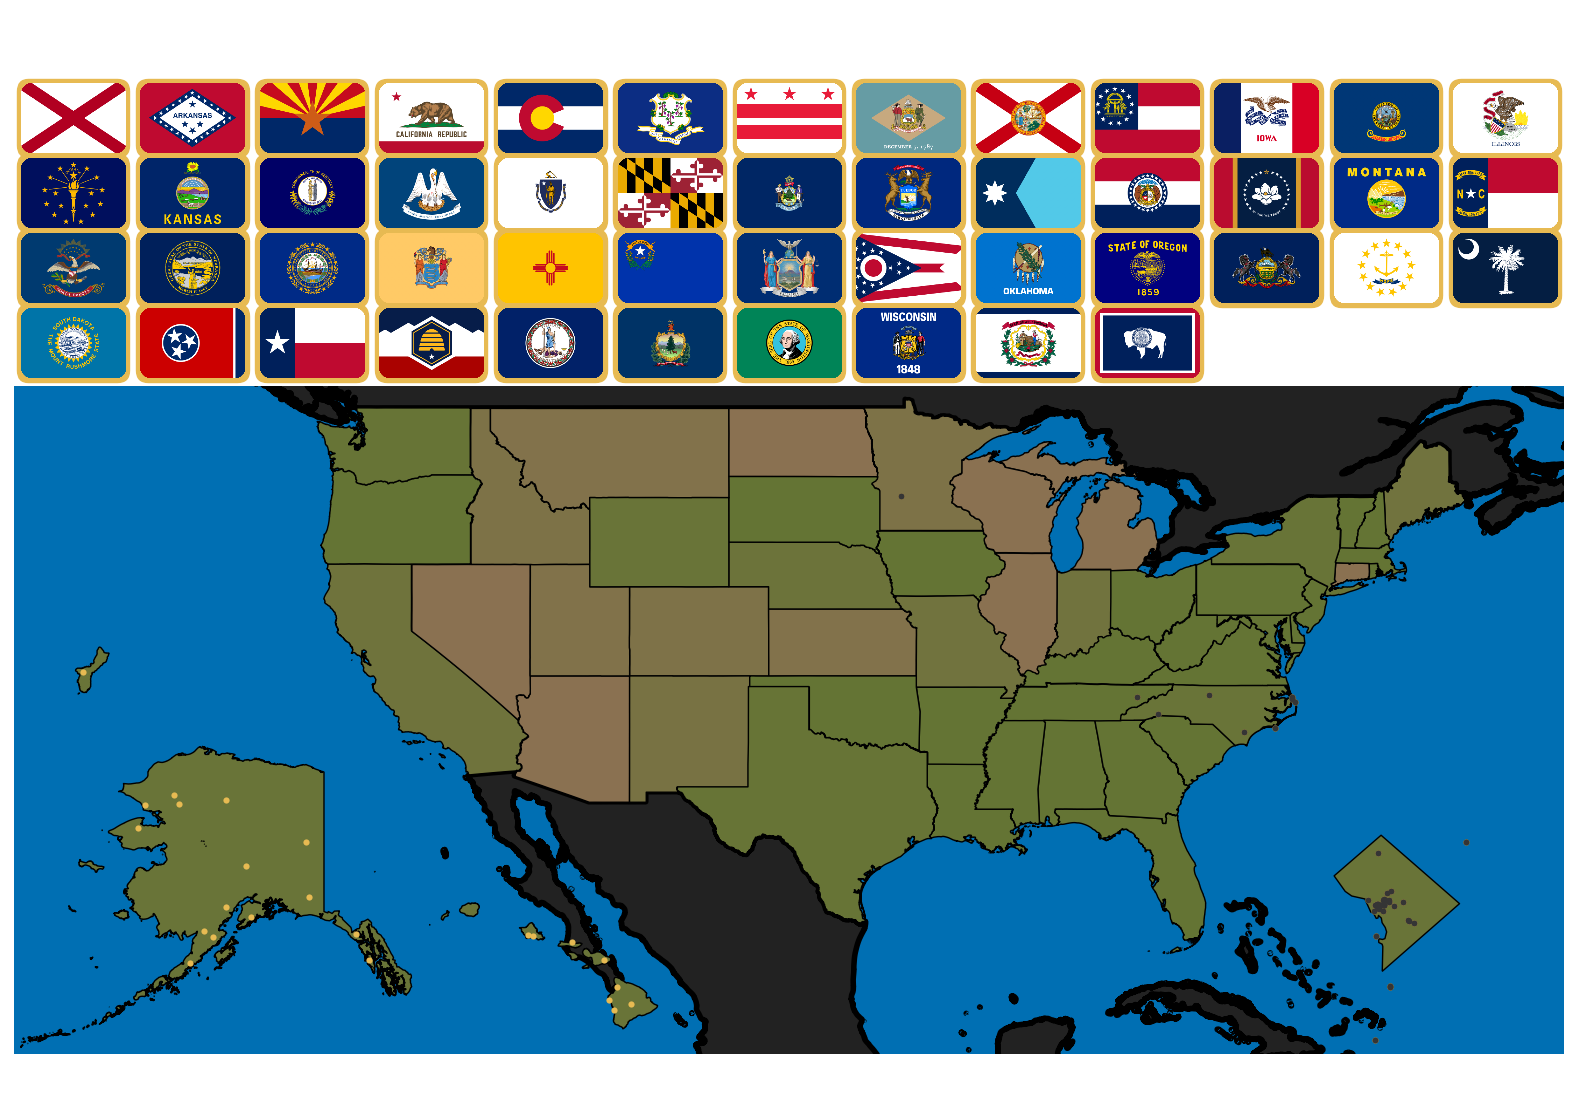
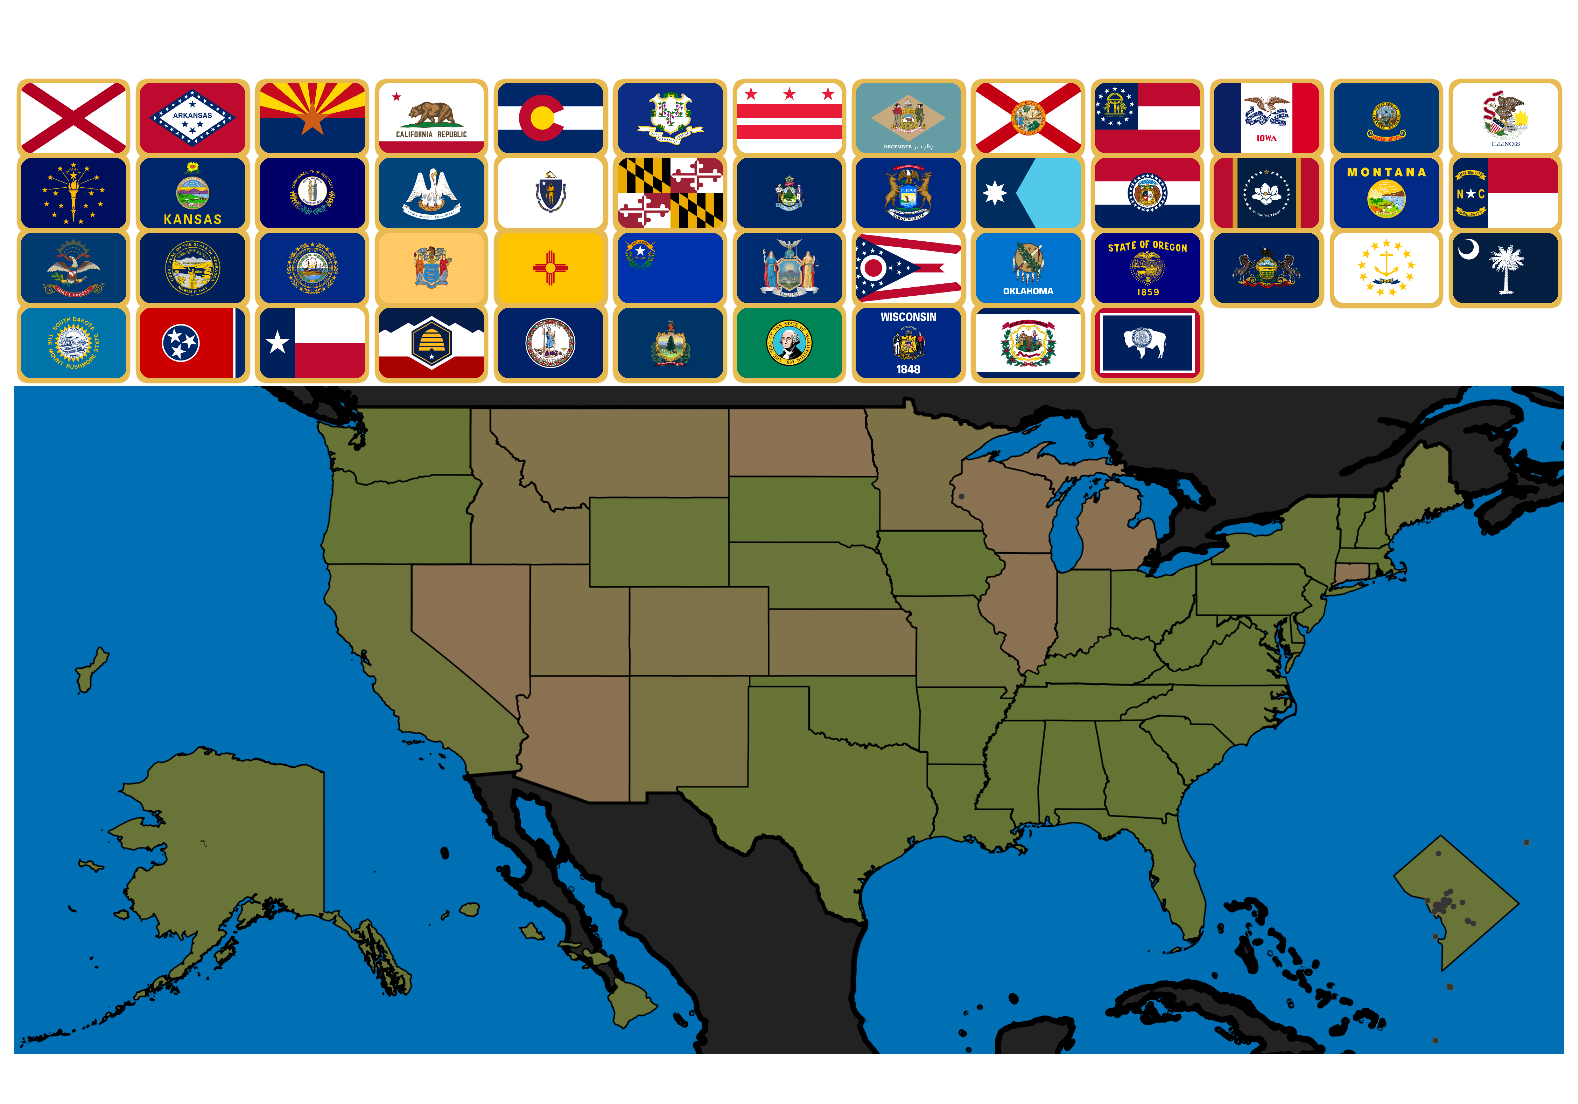
fold merge submaps into new structure

Changed region(s): [[0.8384, 0.7391, 0.9626, 0.8931]]

diff --git a/plotting/plotting_manager.py b/plotting/plotting_manager.py
@@ -57,9 +57,10 @@ class PlotManager:
         self._plot_submaps(ax, current_date)
         if self.scale >= 3:
             self._plot_labels(ax, current_date)
+        else: 
+            self._plot_points(ax, current_date, points=self.points_gdf, type="clear")
         self._plot_points(ax, current_date, points=self.points_gdf, type="clear")
         self._plot_flags(ax)
-        #ax.set_aspect('auto')
         self._finalize_and_save_plot(fig, current_date)
 
     def _initialize_plot(self):
@@ -151,7 +152,7 @@ class PlotManager:
             if map_i == "DC":
                 print(bomap_points["geometry"])
 
-            self._plot_points(ax, current_date, points=bomap_points)
+                self._plot_points(ax, current_date, points=bomap_points)
 
     def _plot_points(self, ax, current_date, points, type="normal"):
         scale_factor = self.marker_size
